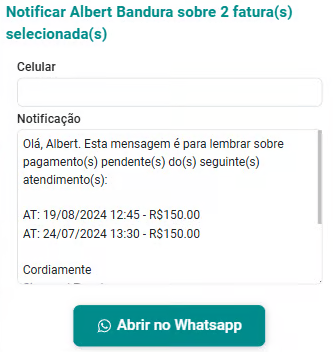
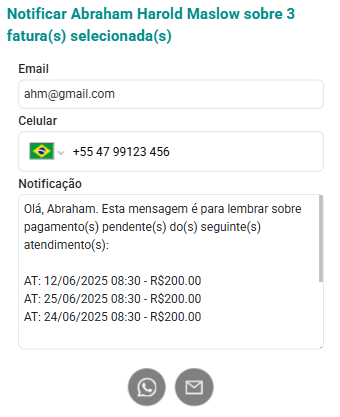
nilson

diff --git a/docs/03-funcionalidades/02-clientes-grupos/01_cadastro/09_aba-arquivos.md b/docs/03-funcionalidades/02-clientes-grupos/01_cadastro/09_aba-arquivos.md
@@ -10,13 +10,13 @@ sidebar_position: 9
 A aba Arquivos não será mostrada se você não fizer antes a configuração "**[Integração com Google Drive](/docs/funcionalidades/configuracoes/integracoes/googledrive)**".
 :::
 
-O eConsult oferece um sistema integrado de gerenciamento de arquivos, diretamente conectado ao Google Drive, proporcionando uma solução centralizada, segura e eficiente para armazenar e acessar documentos de clientes ou grupos de atendimento.
+O eConsult oferece um sistema integrado de gerenciamento de arquivos, diretamente conectado ao seu Google Drive, proporcionando uma solução centralizada, segura e eficiente para armazenar e acessar documentos de clientes ou grupos de atendimento.
 
 Com essa integração, todos os arquivos — como documentos, relatórios, imagens e outros formatos — podem ser facilmente organizados, acessados e compartilhados pela própria plataforma. Isso otimiza o fluxo de trabalho, melhora a organização e permite a categorização lógica e personalizada dos arquivos, de acordo com as necessidades do seu atendimento.
 
 Ao centralizar os documentos no Google Drive, você conta com sincronização em tempo real, backups automáticos e maior segurança, reduzindo o risco de perda de informações importantes.
 
-Para ativar a integração, acesse: [Painel de Configurações > Google Drive](/docs/funcionalidades/configuracoes/integracoes/googledrive).
+Para ativar a integração, acesse: [Painel de Configurações => Google Drive](/docs/funcionalidades/configuracoes/integracoes/googledrive).
 
 Na aba Arquivos, é possível anexar documentos diretamente vinculados ao cliente, facilitando o gerenciamento e o acesso rápido a informações relevantes.
 
@@ -40,15 +40,15 @@ Na aba Arquivos, é possível anexar documentos diretamente vinculados ao client
 
 1. Acione o botão "Incluir" ![Painel Clientes e Grupos](../../../../static/img/prints/buttons/btn_incluir.png).
 
-1. A aba Arquivos mostrará o arquivo incluído vinculado ao cliente.
+1. A aba Arquivos mostrará o arquivo incluído já vinculado ao cliente.
 
 ## Alterar arquivo vinculado ao cliente
 
-1. Na aba "Arquivos, no *card" do arquivo que se quer alterar, acione a opção ![Painel Clientes e Grupos](../../../../static/img/prints/buttons/btn_card-edit.png).
+1. Na aba "Arquivos, no *card* do arquivo que se quer alterar, acione a opção ![Painel Clientes e Grupos](../../../../static/img/prints/buttons/btn_card-edit.png).
 
 1. O sistema abre formulário de cadastro do arquivo.
 
-1. Se que mudar o arquivo, acione a opção "Escolher Arquivo".
+1. Se quiser mudar o arquivo, acione a opção "Escolher Arquivo".
 
     1. Selecione o arquivo desejado do seu dispositivo.
 

diff --git a/docs/03-funcionalidades/02-clientes-grupos/01_cadastro/08_aba-creditos-e-perdas.md b/docs/03-funcionalidades/02-clientes-grupos/01_cadastro/08_aba-creditos-e-perdas.md
@@ -22,29 +22,29 @@ A aba Créditos e Perdas oferece funcionalidades para o gerenciamento de crédit
 
 1. Preencha os campos "Valor", "Data", "Forma de Pagamento" e "Descrição" (opcional).
 
-    :::warning
-        - Se o campo "Data" for preenchido com a data atual ou uma data anterior, o sistema exibirá automaticamente a indicação "Realizado" ao lado da data. 
-
-            ![Painel Clientes e Grupos](../../../../static/img/prints/perdas/005.png)
-        
-        - Caso a data informada seja futura, o sistema mostrará a indicação "Previsto", sinalizando que o pagamento ainda está pendente.
-
-            ![Painel Clientes e Grupos](../../../../static/img/prints/perdas/006.png)
-
-        - Essa informação (Previsto ou Realizado) também estará visível no *card* correspondente ao crédito.
-
-        Além disso, créditos com o status "Previsto" serão incluídos automaticamente na alerta respectivo do painel "Alertas", indicando que há um pagamento pendente de confirmação.
-
-        ![Painel Clientes e Grupos](../../../../static/img/prints/perdas/009.png)
-
-        Dessa forma, o painel "Alertas" reúne, em um só lugar, todos os créditos com pagamento previsto, facilitando o acompanhamento e a gestão dessas pendências.
-    :::
-
 1. Acione o botão "Incluir" ![Painel Clientes e Grupos](../../../../static/img/prints/buttons/btn_incluir.png).
 
 1. A aba mostrará um extrato atualizado já com o crédito cadastrado.
 
     ![Painel Clientes e Grupos](../../../../static/img/prints/clientegrupo/clientegrupo-025.png)
+
+:::warning
+    - Se o campo "Data" for preenchido com a data atual ou uma data anterior, o sistema exibirá automaticamente a indicação "Realizado" ao lado da data. 
+
+        ![Painel Clientes e Grupos](../../../../static/img/prints/perdas/005.png)
+    
+    - Caso a data informada seja futura, o sistema mostrará a indicação "Previsto", sinalizando que o pagamento ainda está pendente.
+
+        ![Painel Clientes e Grupos](../../../../static/img/prints/perdas/006.png)
+
+    - Essa informação (Previsto ou Realizado) também estará visível no *card* correspondente ao crédito.
+
+    Além disso, créditos com o status "Previsto" serão incluídos automaticamente no alerta respectivo do painel "Alertas", indicando que há um pagamento pendente de confirmação.
+
+    ![Painel Clientes e Grupos](../../../../static/img/prints/perdas/009.png)
+
+    Dessa forma, o painel "Alertas" reúne, em um só lugar, todos os créditos com pagamento previsto, facilitando o acompanhamento e a gestão dessas pendências.
+:::
 
 ## Mudar status de crédito antecipado de "Previsto" para "Realizado"
 

diff --git a/docs/03-funcionalidades/02-clientes-grupos/01_cadastro/07_aba-faturas.md b/docs/03-funcionalidades/02-clientes-grupos/01_cadastro/07_aba-faturas.md
@@ -40,7 +40,7 @@ Sendo assim, na aba Faturas, você encontrará duas sub-abas distintas para um g
 
 Na sub-aba "Pendentes", você dispõe de duas funções essenciais para o gerenciamento das faturas em aberto:
 
-- **Função "Notificar":** Permite enviar notificações diretamente pelo WhatsApp aos clientes sobre os pagamentos pendentes selecionados. Ao ativar essa função, é possível disparar uma mensagem personalizada, alertando o cliente sobre a necessidade de quitação das faturas marcadas. Essa comunicação direta torna o lembrete rápido e eficiente, facilitando a recuperação de pagamentos.
+- **Função "Notificar":** Permite enviar notificações diretamente pelo WhatsApp ou E-mail aos clientes sobre os pagamentos pendentes selecionados. Ao ativar essa função, é possível disparar uma mensagem personalizada, alertando o cliente sobre a necessidade de quitação das faturas marcadas. Essa comunicação direta torna o lembrete rápido e eficiente, facilitando a recuperação de pagamentos.
 
     ![Painel Clientes e Grupos](../../../../static/img/prints/clientegrupo/clientegrupo-021.png)
     
@@ -54,7 +54,7 @@ Na sub-aba "Pendentes", você dispõe de duas funções essenciais para o gerenc
 
 Na sub-aba Recebidas, você conta com duas funções essenciais para o gerenciamento das faturas já quitadas:
 
-- **Notificar:** Permite informar o cliente, via WhatsApp, que o pagamento das faturas selecionadas foi recebido e registrado. Essa comunicação mantém o cliente atualizado e fortalece a transparência no relacionamento.
+- **Notificar:** Permite informar o cliente, via WhatsApp ou E-mail, que o pagamento das faturas selecionadas foram recebidas e registradas. Essa comunicação mantém o cliente atualizado e fortalece a transparência no relacionamento.
 
 - **Recibo:** Com essa função, você pode gerar um recibo oficial para o cliente, contemplando as faturas selecionadas. Esse documento formaliza o pagamento de forma clara e profissional, auxiliando no controle e na prestação de contas.
 

diff --git a/docs/03-funcionalidades/02-clientes-grupos/01_cadastro/06_aba-desmarcacoes-remarcacoes.md b/docs/03-funcionalidades/02-clientes-grupos/01_cadastro/06_aba-desmarcacoes-remarcacoes.md
@@ -18,7 +18,7 @@ Nesta aba, você encontrará também duas sub-abas distintas para uma navegaçã
 
     ![Painel Clientes e Grupos](../../../../static/img/prints/clientegrupo/clientegrupo-017.png)
 
-- **Sub-aba "Desmarcações":** Aqui estão registradas tsodas as desmarcações de atendimentos. Essa seção exibe um histórico das consultas que foram canceladas, detalhando as datas e horários originais dos atendimentos que foram removidos.
+- **Sub-aba "Desmarcações":** Aqui estão registradas todas as desmarcações de atendimentos. Essa seção exibe um histórico das consultas que foram canceladas, detalhando as datas e horários originais dos atendimentos que foram removidos.
 
     ![Painel Clientes e Grupos](../../../../static/img/prints/clientegrupo/clientegrupo-018.png)
 
